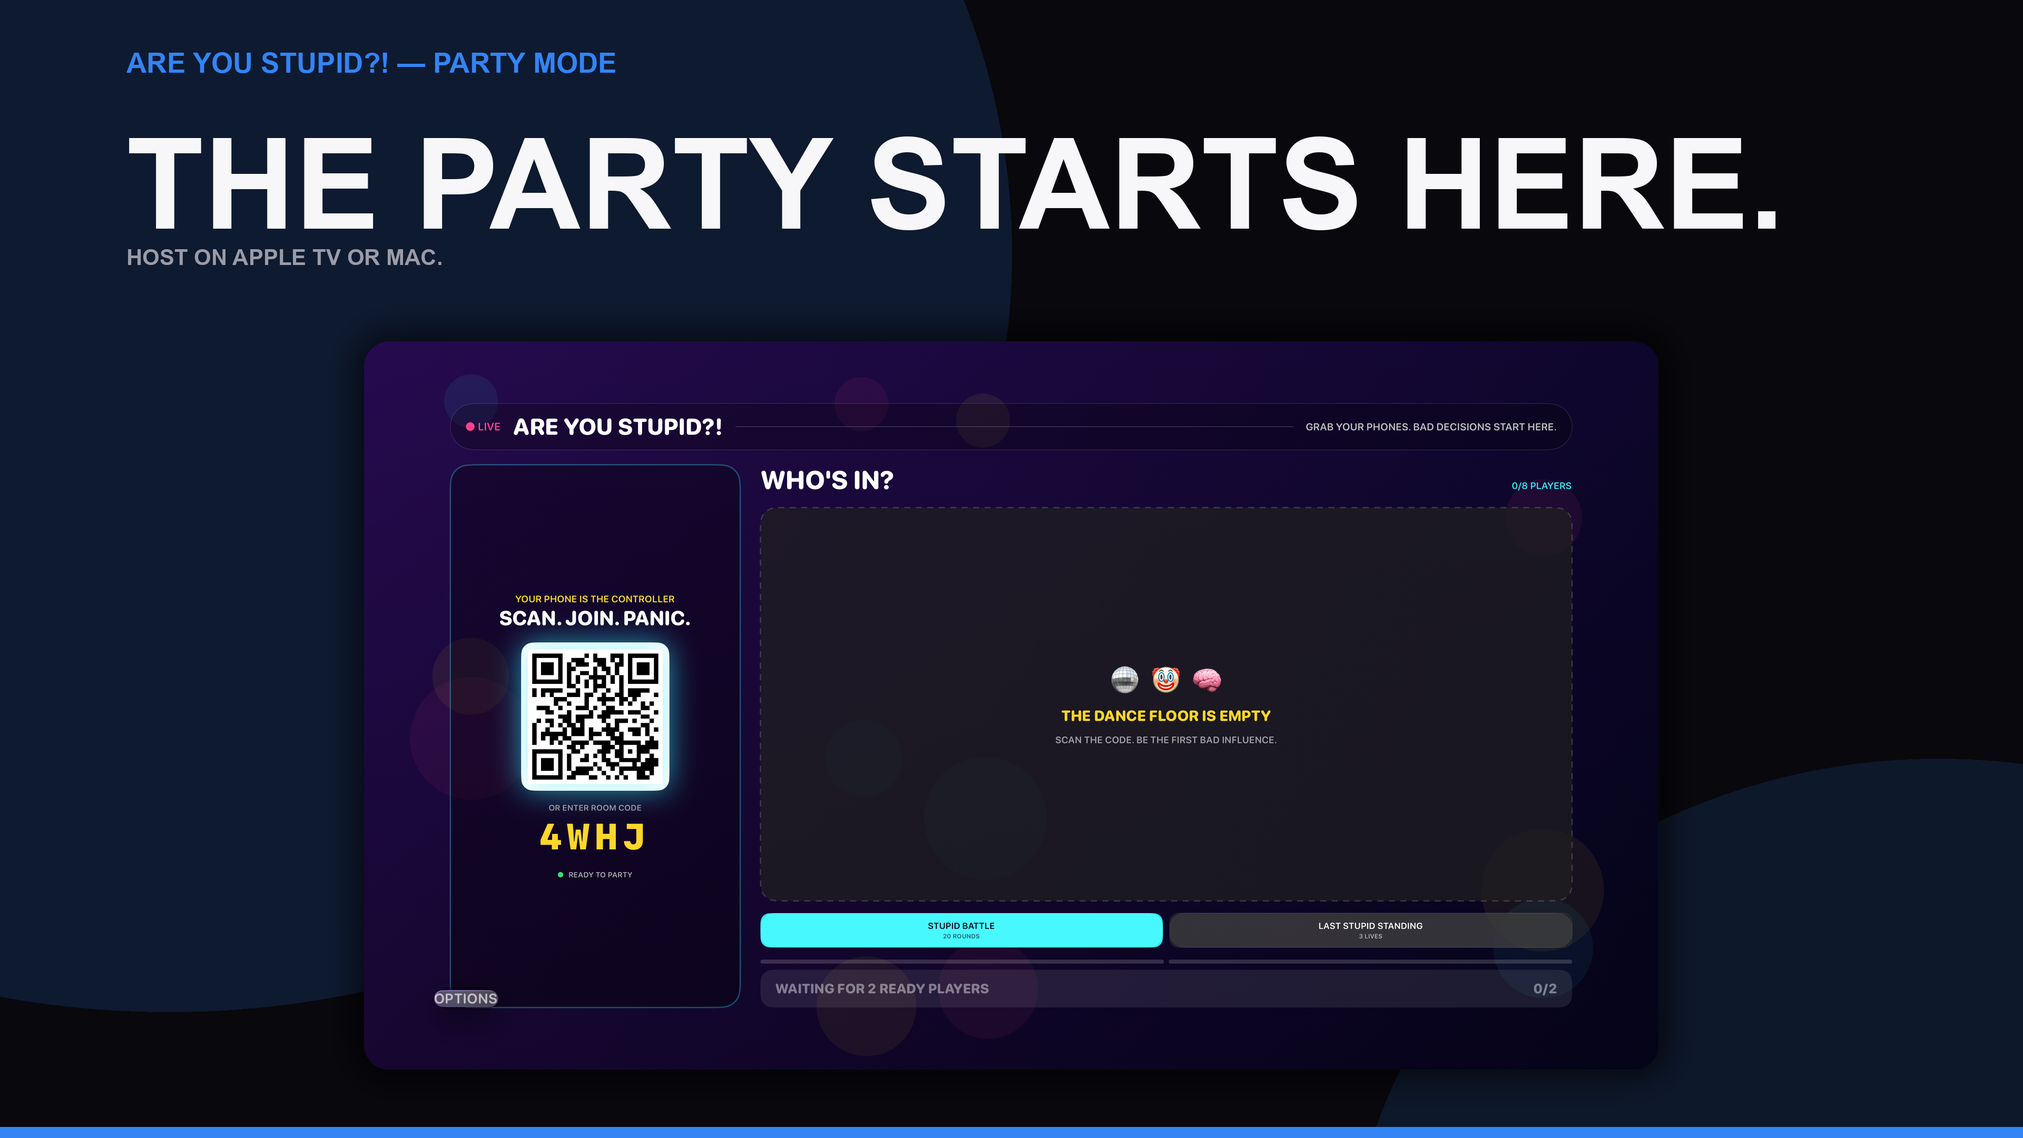
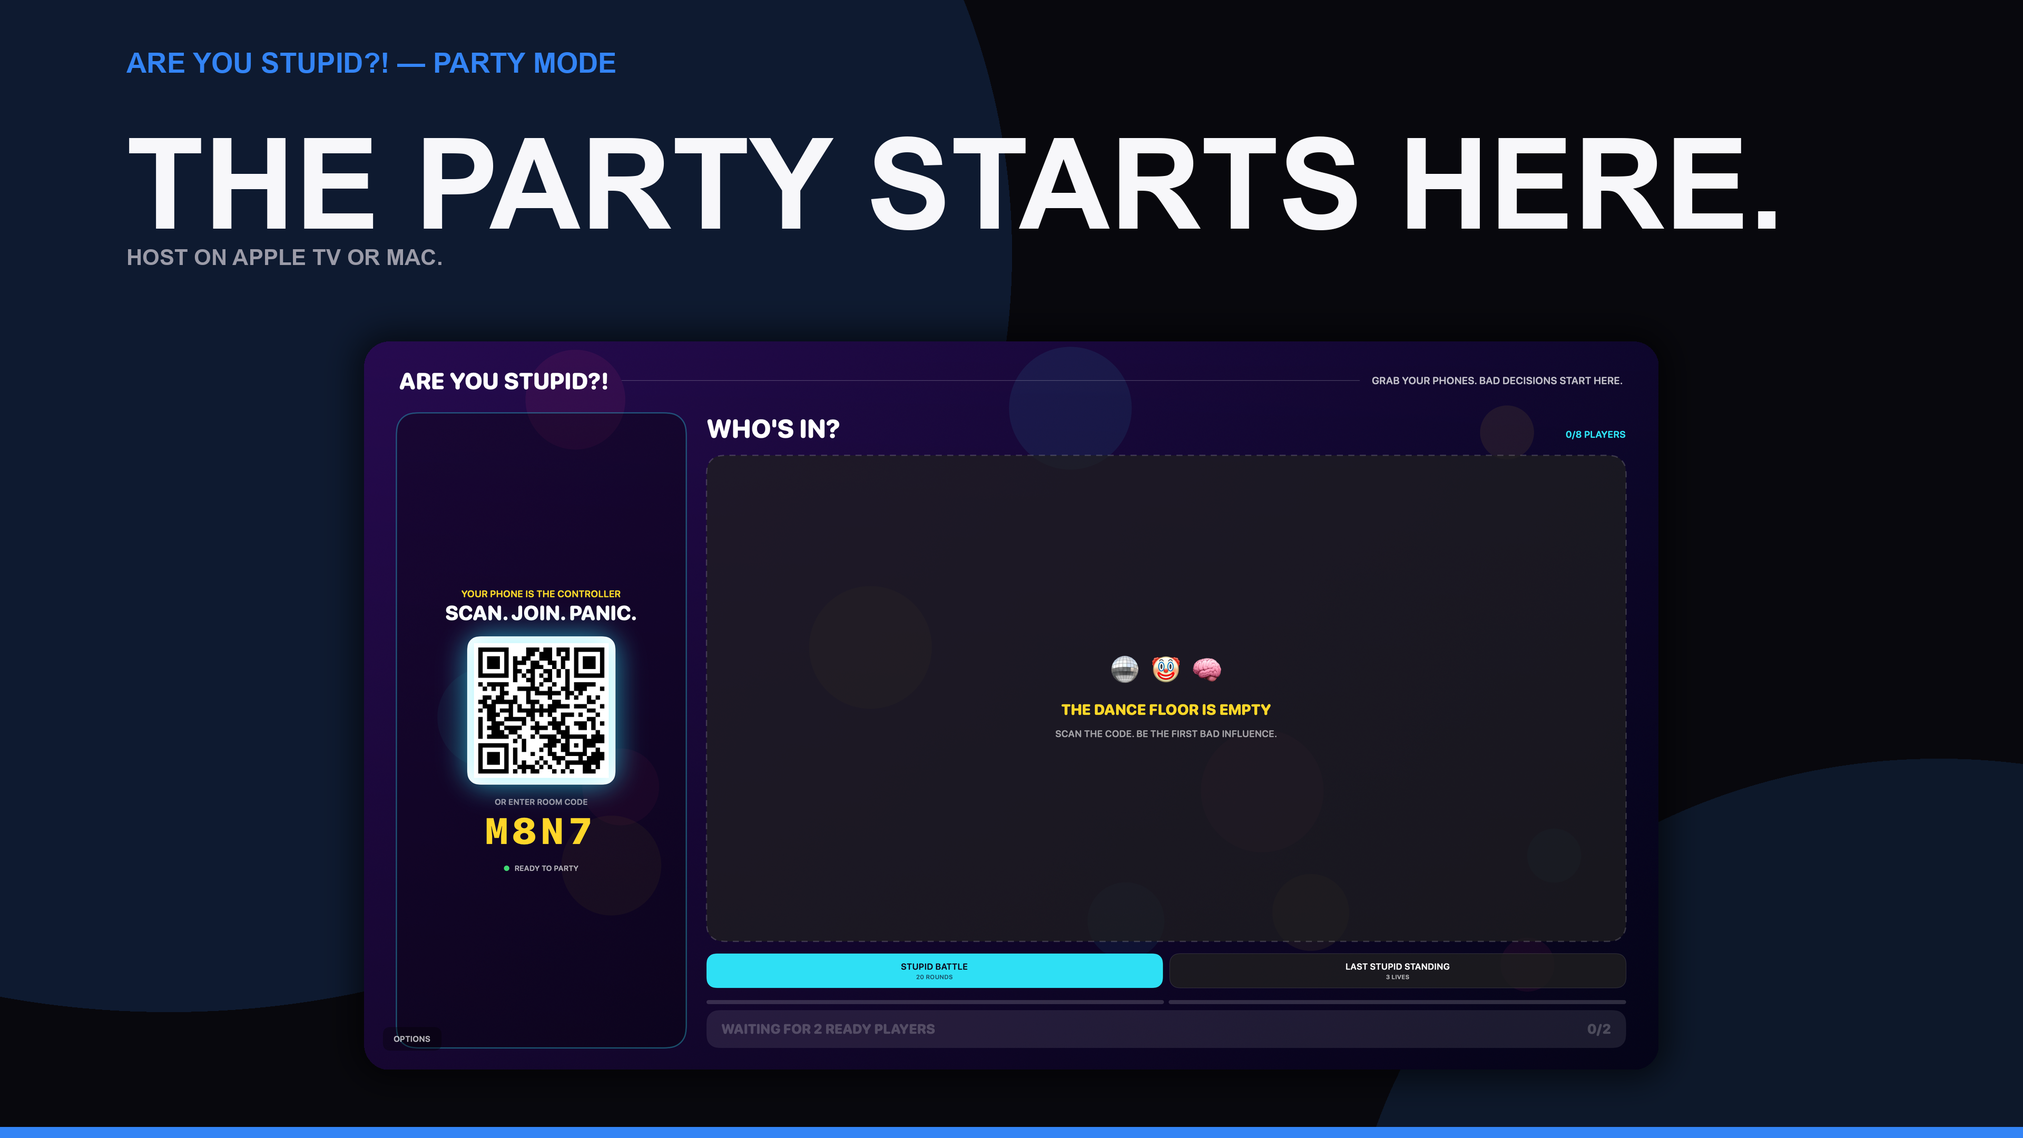
chore(store): Apple TV and Mac screenshots from the redesigned board
Apple TV set grows to five slides (lobby, full lobby, round results,
elimination, final) and the Mac set replaces its old host-board slide with
lobby, results and final. Board images are 2x renders of the shipped SwiftUI
views from the new testStoreCaptures snapshot test; the Mac slides drop the
pill badge for plain accent text.

The lobby cast only scrolls once it overflows (ViewThatFits), so still
renders can draw it.

diff --git a/tvos/Tests/AYSHostUITests/BoardSnapshotTests.swift b/tvos/Tests/AYSHostUITests/BoardSnapshotTests.swift
@@ -30,20 +30,22 @@ final class BoardSnapshotTests: XCTestCase {
     }
 
     private func render(_ name: String, _ model: HostViewModel,
-                        sizes: [CGSize] = [CGSize(width: 1280, height: 720)]) throws {
+                        sizes: [CGSize] = [CGSize(width: 1280, height: 720)],
+                        scale: CGFloat = 1, directory: String? = nil) throws {
+        let directory = directory ?? ProcessInfo.processInfo.environment["AYS_BOARD_SNAPSHOT_DIR"]
         for size in sizes {
             let view = BoardScreens(model: model)
                 .frame(width: size.width, height: size.height)
                 .environment(\.boardStill, true)
                 .foregroundStyle(.white)
             let renderer = ImageRenderer(content: view)
-            renderer.scale = 1
-            let image = try XCTUnwrap(renderer.nsImage, "\(name) did not render")
-            XCTAssertEqual(image.size.width, size.width)
-            if let dir = ProcessInfo.processInfo.environment["AYS_BOARD_SNAPSHOT_DIR"],
-               let tiff = image.tiffRepresentation,
-               let png = NSBitmapImageRep(data: tiff)?.representation(using: .png, properties: [:]) {
-                let url = URL(fileURLWithPath: dir).appendingPathComponent("\(name)-\(Int(size.width)).png")
+            renderer.scale = scale
+            let image = try XCTUnwrap(renderer.cgImage, "\(name) did not render")
+            XCTAssertEqual(CGFloat(image.width), size.width * scale)
+            if let directory,
+               let png = NSBitmapImageRep(cgImage: image).representation(using: .png, properties: [:]) {
+                let suffix = scale == 1 ? "-\(Int(size.width))" : ""
+                let url = URL(fileURLWithPath: directory).appendingPathComponent("\(name)\(suffix).png")
                 try png.write(to: url)
             }
         }
@@ -61,7 +63,7 @@ final class BoardSnapshotTests: XCTestCase {
         return stats
     }
 
-    func testRoundResultsBattleMixed() throws {
+    private func battleResultsModel() -> HostViewModel {
         let model = HostViewModel()
         let results = [
             PlayerRoundResult(playerId: "p0", correct: true, scoreDelta: 100, reactionMs: 912),
@@ -78,12 +80,16 @@ final class BoardSnapshotTests: XCTestCase {
             standings: battle([600, 700, 500, 500, 400, 300, 500]),
             commentary: "Some read it. Some were present.",
             screen: .results(results: results, roundId: "r7"))
-        try render("results-battle", model, sizes: [CGSize(width: 1280, height: 720),
+        return model
+    }
+
+    func testRoundResultsBattleMixed() throws {
+        try render("results-battle", battleResultsModel(), sizes: [CGSize(width: 1280, height: 720),
                                                      CGSize(width: 1920, height: 1080),
                                                      CGSize(width: 900, height: 560)])
     }
 
-    func testRoundResultsElimination() throws {
+    private func eliminationResultsModel() -> HostViewModel {
         let model = HostViewModel()
         let results = [
             PlayerRoundResult(playerId: "p0", correct: true, reactionMs: 700),
@@ -97,7 +103,11 @@ final class BoardSnapshotTests: XCTestCase {
             standings: lss([3, 0, 1, 2, 0]),
             commentary: "Giulia has left the building. Mentally, a while ago.",
             screen: .results(results: results, roundId: "r9"))
-        try render("results-elimination", model)
+        return model
+    }
+
+    func testRoundResultsElimination() throws {
+        try render("results-elimination", eliminationResultsModel())
     }
 
     func testRoundResultsEveryoneRight() throws {
@@ -126,7 +136,7 @@ final class BoardSnapshotTests: XCTestCase {
         try render("results-crowded", model)
     }
 
-    func testGameEndWinner() throws {
+    private func winnerModel() -> HostViewModel {
         let model = HostViewModel()
         let scores = [1700, 1500, 1200, 1100, 1000, 600, 900]
         let order = scores.enumerated().sorted { $0.element > $1.element }
@@ -136,7 +146,11 @@ final class BoardSnapshotTests: XCTestCase {
             standingsBefore: battle(scores), standings: battle(scores), stats: stats,
             commentary: "Luca wins. Statistically, someone had to.",
             screen: .gameEnd(GameEnd(mode: .stupidBattle, results: entries, winnerId: "p0")))
-        try render("final-winner", model, sizes: [CGSize(width: 1280, height: 720), CGSize(width: 900, height: 560)])
+        return model
+    }
+
+    func testGameEndWinner() throws {
+        try render("final-winner", winnerModel(), sizes: [CGSize(width: 1280, height: 720), CGSize(width: 900, height: 560)])
     }
 
     func testGameEndNobodySurvived() throws {
@@ -157,5 +171,32 @@ final class BoardSnapshotTests: XCTestCase {
             standings: battle([600, 700, 500, 500, 400, 300, 500]),
             screen: .round(roundId: "r8"))
         try render("round", model)
+    }
+
+    /// Raw board captures for the App Store (Apple TV and Mac) campaigns,
+    /// rendered at 2x: `AYS_STORE_CAPTURE_DIR=… swift test --filter
+    /// testStoreCaptures`, then store_assets/generate_*_screenshots.py.
+    func testStoreCaptures() throws {
+        guard let directory = ProcessInfo.processInfo.environment["AYS_STORE_CAPTURE_DIR"] else {
+            throw XCTSkip("AYS_STORE_CAPTURE_DIR not set")
+        }
+        let tv = [CGSize(width: 1920, height: 1080)]
+        let mac = [CGSize(width: 1440, height: 900)]
+
+        let emptyLobby = HostViewModel()
+        emptyLobby.seedForSnapshot(roster: [], mode: .stupidBattle, roundNumber: 0, standingsBefore: [], standings: [],
+                                   networkStatus: "READY TO PARTY", screen: .lobby)
+        let fullLobby = HostViewModel()
+        fullLobby.seedForSnapshot(roster: roster(6), mode: .stupidBattle, roundNumber: 0, standingsBefore: [], standings: [],
+                                  networkStatus: "READY TO PARTY", screen: .lobby)
+        let models: [(String, HostViewModel)] = [
+            ("lobby-empty", emptyLobby), ("lobby-full", fullLobby),
+            ("results-battle", battleResultsModel()), ("results-elimination", eliminationResultsModel()),
+            ("final-winner", winnerModel()),
+        ]
+        for (name, model) in models {
+            try render("tv-\(name)", model, sizes: tv, scale: 2, directory: directory)
+            try render("mac-\(name)", model, sizes: mac, scale: 2, directory: directory)
+        }
     }
 }

diff --git a/tvos/UI/LobbyView.swift b/tvos/UI/LobbyView.swift
@@ -91,6 +91,7 @@ private struct LobbyMarquee: View {
 private struct JoinTicket: View {
     @ObservedObject var model: HostViewModel
     let compact: Bool
+    @Environment(\.boardStill) private var still
 
     var body: some View {
         VStack(spacing: compact ? 12 : 18) {
@@ -116,7 +117,8 @@ private struct JoinTicket: View {
                     .font(Theme.label(11)).lineLimit(1).foregroundStyle(Color.white.opacity(0.65))
             }
             #if os(macOS)
-            AirPlayButton().frame(width: 30, height: 30)
+            // A native NSView: a still render cannot draw it.
+            if !still { AirPlayButton().frame(width: 30, height: 30) }
             #endif
         }
         .frame(maxWidth: .infinity, maxHeight: .infinity).padding(compact ? 18 : 26)
@@ -140,13 +142,13 @@ private struct PartyRoster: View {
                 if model.roster.isEmpty {
                     EmptyDanceFloor()
                 } else {
-                    ScrollView {
-                        LazyVGrid(columns: [GridItem(.flexible()), GridItem(.flexible())], spacing: compact ? 10 : 14) {
-                            ForEach(Array(model.roster.enumerated()), id: \.element.playerId) { index, player in
-                                PlayerCard(player: player, seat: index + 1)
-                            }
-                        }
+                    // Scroll only once the cast outgrows the panel (a 16-player
+                    // Party Pack room on a small window).
+                    ViewThatFits(in: .vertical) {
+                        cast
+                        ScrollView { cast }
                     }
+                    .frame(maxHeight: .infinity, alignment: .top)
                 }
             }
             .frame(maxHeight: .infinity)
@@ -154,6 +156,16 @@ private struct PartyRoster: View {
             StartPanel(model: model)
         }
         .frame(maxWidth: .infinity, maxHeight: .infinity)
+    }
+}
+
+private extension PartyRoster {
+    var cast: some View {
+        LazyVGrid(columns: [GridItem(.flexible()), GridItem(.flexible())], spacing: compact ? 10 : 14) {
+            ForEach(Array(model.roster.enumerated()), id: \.element.playerId) { index, player in
+                PlayerCard(player: player, seat: index + 1)
+            }
+        }
     }
 }
 

diff --git a/tvos/UI/HostViewModel.swift b/tvos/UI/HostViewModel.swift
@@ -424,9 +424,11 @@ final class HostViewModel: ObservableObject {
         standings: [PlayerScore],
         stats: [String: PlayerMatchStats] = [:],
         commentary: String? = nil,
+        networkStatus: String? = nil,
         screen: BoardScreen
     ) {
         self.roster = roster
+        if let networkStatus { self.networkStatus = networkStatus }
         matchMode = mode
         self.roundNumber = roundNumber
         standingsBeforeRound = Dictionary(uniqueKeysWithValues: standingsBefore.map { ($0.playerId, $0) })

diff --git a/store_assets/generate_mac_screenshots.py b/store_assets/generate_mac_screenshots.py
@@ -4,7 +4,9 @@ The Mac app is the full game (single player) plus the party host board, so
 the set shows both. Captures live in build/screenshots/mac/: the Release-
 equivalent Flutter macOS app driven through its own UI in English, windows
 captured with `screencapture -o -l <window>` (home, challenge, fail,
-gameover, chooser) and the HOST ON THIS MAC board window (host). Reuses the
+gameover, chooser). The HOST ON THIS MAC board slides use the 2880 × 1800
+board renders in build/screenshots/board-v3/ (AYSHostUI snapshot test,
+`testStoreCaptures`), the same SwiftUI views the window shows. Reuses the
 helpers of generate_store_screenshots.py. Run from the repository root:
 
     python3 store_assets/generate_mac_screenshots.py
@@ -16,15 +18,18 @@ from PIL import Image, ImageDraw, ImageFilter
 import generate_store_screenshots as base
 
 SHOTS = base.ROOT / "build" / "screenshots" / "mac"
+BOARD = base.BOARD_SHOTS
 OUT = base.OUT / "mac"
 SIZE = (2880, 1800)
 
-# (eyebrow, headline, pill, accent, captures)
+# (eyebrow, headline, label, accent, captures)
 SLIDES = [
     ("PLAY SOLO ON YOUR MAC", "LOOKS EASY. ISN'T.", "DOZENS OF STUPIDLY SIMPLE TRAPS", base.GREEN, ["home.png", "challenge.png"]),
     ("FAIL FAST. RETRY FASTER.", "YOU HAD ONE JOB.", "EVERY FAIL EXPLAINED IN ONE LINE", base.RED, ["fail.png", "gameover.png"]),
     ("TWO WAYS TO PLAY", "SOLO OR PARTY HOST.", "PLAY ON THIS MAC  •  HOST ON THIS MAC", base.YELLOW, ["chooser.png"]),
-    ("PARTY MODE", "YOUR MAC IS THE GAME BOARD.", "PHONES BECOME CONTROLLERS  •  UP TO 16", base.BLUE, ["host.png"]),
+    ("PARTY MODE", "YOUR MAC IS THE GAME BOARD.", "PHONES BECOME CONTROLLERS  •  UP TO 16", base.BLUE, ["board:mac-lobby-full.png"]),
+    ("PARTY MODE", "EVERY FAIL GETS NAMED.", "ON THE BIG SCREEN. IN FRONT OF EVERYONE.", base.RED, ["board:mac-results-battle.png"]),
+    ("THE FINAL", "ONE WINNER. EVERYONE ELSE: STUPID.", "AWARDS FOR THE FASTEST AND THE WORST", base.YELLOW, ["board:mac-final-winner.png"]),
 ]
 
 
@@ -34,6 +39,11 @@ def paste_window(canvas: Image.Image, source: Path, box: tuple[int, int, int, in
     shot = Image.open(source).convert("RGBA")
     ratio = min((x1 - x0) / shot.width, (y1 - y0) / shot.height)
     shot = shot.resize((round(shot.width * ratio), round(shot.height * ratio)), Image.Resampling.LANCZOS)
+    if shot.getextrema()[3][0] == 255:
+        # A flat board render has no window corners of its own: round them.
+        mask = Image.new("L", shot.size, 0)
+        ImageDraw.Draw(mask).rounded_rectangle((0, 0, shot.width, shot.height), radius=28, fill=255)
+        shot.putalpha(mask)
     sx = x0 + ((x1 - x0) - shot.width) // 2
     sy = y0 + ((y1 - y0) - shot.height) // 2
     shadow = Image.new("RGBA", canvas.size, (0, 0, 0, 0))
@@ -53,14 +63,16 @@ def slide(index: int, eyebrow: str, headline: str, label: str, accent: str, capt
     draw.text((margin, 110), eyebrow, font=base.font(52), fill=accent)
     headline_font = base.fit_text(draw, headline, w - 2 * margin, 150)
     draw.text((margin, 180), headline, font=headline_font, fill=base.INK)
-    base.pill(draw, (margin, 375), label, accent, scale=1.4)
+    # Plain accent line, no pill badge (matches the board's no-pill chrome).
+    draw.text((margin, 380), label, font=base.font(48), fill=accent)
 
     top, bottom = 520, h - 90
     gap = 90
     slot = (w - 2 * margin - gap * (len(captures) - 1)) // len(captures)
     for i, name in enumerate(captures):
         x = margin + i * (slot + gap)
-        paste_window(canvas, SHOTS / name, (x, top, x + slot, bottom))
+        source = BOARD / name.removeprefix("board:") if name.startswith("board:") else SHOTS / name
+        paste_window(canvas, source, (x, top, x + slot, bottom))
     base.save(canvas, OUT / f"{index:02d}.png")
 
 

diff --git a/store_assets/generate_store_screenshots.py b/store_assets/generate_store_screenshots.py
@@ -11,6 +11,10 @@ OUT = ROOT / "store_assets" / "output"
 # Pro Max simulator, and the Apple TV 4K simulator board with dev bot players.
 PHONE = ROOT / "build" / "screenshots" / "iphone69-v2"
 TV_SHOTS = ROOT / "build" / "screenshots" / "appletv-v2"
+# Board renders at 3840 × 2160 / 2880 × 1800 from the AYSHostUI snapshot test
+# (2026-10-17 board redesign): `AYS_STORE_CAPTURE_DIR=../build/screenshots/
+# board-v3 swift test --filter testStoreCaptures` from tvos/.
+BOARD_SHOTS = ROOT / "build" / "screenshots" / "board-v3"
 # Native iPad Pro 13" simulator captures, same moments as the phone slides.
 IPAD = ROOT / "build" / "screenshots" / "ipad13-v2"
 IPAD_FILE = {"02_challenge_tapgreen.png": "02_challenge.png"}
@@ -264,9 +268,11 @@ def imessage_assets() -> None:
 
 
 DESKTOP_SLIDES = [
-    ("THE PARTY STARTS HERE.", "HOST ON APPLE TV OR MAC.", BLUE, "lobby0.png"),
-    ("SCAN. JOIN. PANIC.", "PHONES BECOME CONTROLLERS.", GREEN, "lobby4.png"),
-    ("UP TO 16 PLAYERS.", "ONE ROOM. ZERO DIGNITY.", RED, "lobby5.png"),
+    ("THE PARTY STARTS HERE.", "HOST ON APPLE TV OR MAC.", BLUE, "tv-lobby-empty.png"),
+    ("SCAN. JOIN. PANIC.", "PHONES BECOME CONTROLLERS. UP TO 16 PLAYERS.", GREEN, "tv-lobby-full.png"),
+    ("EVERY FAIL GETS NAMED.", "ON THE BIG SCREEN. IN FRONT OF EVERYONE.", RED, "tv-results-battle.png"),
+    ("THREE LIVES. NO MERCY.", "LAST STUPID STANDING.", RED, "tv-results-elimination.png"),
+    ("ONE WINNER.", "EVERYONE ELSE: OFFICIALLY STUPID.", YELLOW, "tv-final-winner.png"),
 ]
 
 
@@ -287,8 +293,10 @@ def wide_asset(size: tuple[int, int], folder: str, index: int, headline: str, su
 
 def desktop_assets() -> None:
     # Mac screenshots come from generate_mac_screenshots.py (real Mac app).
+    for old in (OUT / "apple-tv").glob("*.png"):
+        old.unlink()
     for index, (headline, subhead, accent, shot) in enumerate(DESKTOP_SLIDES, 1):
-        wide_asset((3840, 2160), "apple-tv", index, headline, subhead, accent, TV_SHOTS / shot)
+        wide_asset((3840, 2160), "apple-tv", index, headline, subhead, accent, BOARD_SHOTS / shot)
 
 
 def play_assets() -> None:

diff --git a/store_assets/README.md b/store_assets/README.md
@@ -9,12 +9,29 @@ Ready-to-upload PNG files are generated into `output/`:
 - `ipad-13-carousel/`: five-panel carousel, 2064 × 2752, from native iPad
   Pro 13" simulator captures (`build/screenshots/ipad13-v2/`)
 - `imessage-6.9-carousel/`: five-panel Stupid Streak carousel, 1320 × 2868
-- `apple-tv/`: 3840 × 2160, real Apple TV 4K simulator board captures
-  (`build/screenshots/appletv-v2/`: empty lobby, then 4 and 5 players joined
-  with `dart run tool/dev_bot_players.dart HOST PORT N`)
-- `mac/`: 2880 × 1800 — real captures of the Mac app (single player, the
-  PLAY/HOST chooser and the host board) from `build/screenshots/mac/`, built
-  by `generate_mac_screenshots.py`
+- `apple-tv/`: 3840 × 2160, five board slides (empty lobby, full lobby, round
+  results, elimination, final). The board images are 2x renders of the shipped
+  SwiftUI board views from `build/screenshots/board-v3/` (see below)
+- `mac/`: 2880 × 1800 — real window captures of the Mac app (single player and
+  the PLAY/HOST chooser, `build/screenshots/mac/`) plus three host-board slides
+  (lobby, round results, final) from the same board renders, built by
+  `generate_mac_screenshots.py`. Supporting lines are plain accent text, no
+  pill badges
+
+The board renders come from the AYSHostUI snapshot test, seeded with fixture
+players, so lobby, results and final can be shown without staging a live
+match. Refresh them after any board change, from `tvos/`:
+
+```bash
+AYS_STORE_CAPTURE_DIR="$PWD/../build/screenshots/board-v3" swift test --filter testStoreCaptures
+```
+
+then, from the repository root, regenerate only the Apple TV and Mac sets:
+
+```bash
+python3 -c "import sys; sys.path.insert(0, 'store_assets'); import generate_store_screenshots as g; g.desktop_assets()"
+python3 store_assets/generate_mac_screenshots.py
+```
 - `play-phone/`: 1080 × 1920 (Google Play phone screenshots; Play rejects
   images taller than 2:1)
 - `play-feature/`: Google Play feature graphic (1024 × 500) and hi-res icon

diff --git a/docs/Meta/Decision Log.md b/docs/Meta/Decision Log.md
@@ -3660,3 +3660,17 @@ crowned nobody under `NOT STUPID AFTER ALL` when the last survivors were
 eliminated together. The capsule chips read as generic AI-generated UI rather
 than broadcast graphics. Fixed point sizes drifted between the Apple TV and a
 small Mac window. See [[Multiplayer Gameplay]] and [[Multiplayer Host (tvOS)]].
+
+### 2026-10-17 — Apple TV and Mac store board shots are view renders
+
+**Decision.** The Apple TV set (now five slides) and the Mac set's three
+host-board slides use 2x renders of the shipped SwiftUI board views produced by
+`AYSHostUITests.testStoreCaptures` with fixture players, instead of simulator
+or window captures of a staged match. The Mac set's supporting line is plain
+accent text instead of a pill badge.
+
+**Why.** The redesigned results and final screens only exist mid-match; staging
+a full match with bot players for every board change is slow and not
+repeatable. The renders are the same views the app shows (no mocked UI), with
+deterministic names and scores. The old lobby captures still showed the
+removed `● LIVE` capsule. See [[Testing]].

diff --git a/docs/Development/Testing.md b/docs/Development/Testing.md
@@ -149,6 +149,13 @@ review, write the PNGs somewhere:
 AYS_BOARD_SNAPSHOT_DIR=/tmp/ays-board swift test --filter AYSHostUITests
 ```
 
+`testStoreCaptures` (skipped unless `AYS_STORE_CAPTURE_DIR` is set) renders the
+lobby, results and final boards at 2x for the Apple TV (3840 × 2160) and Mac
+(2880 × 1800) App Store screenshots; `store_assets/README.md` has the steps.
+Still renders cannot draw a `ScrollView`'s content or a native `NSView`, so the
+lobby only scrolls its cast once it overflows (`ViewThatFits`) and hides the
+AirPlay picker under `boardStill`.
+
 ### `tvos/Tests/AYSHostCoreTests/` — the Swift host authority (Phase 4, partial)
 42 XCTest cases against `RoomHost`, `AYSChallengeCatalog` and the `Net/`/`QR/`
 layers, mirroring the Dart suites above but on the Swift port
